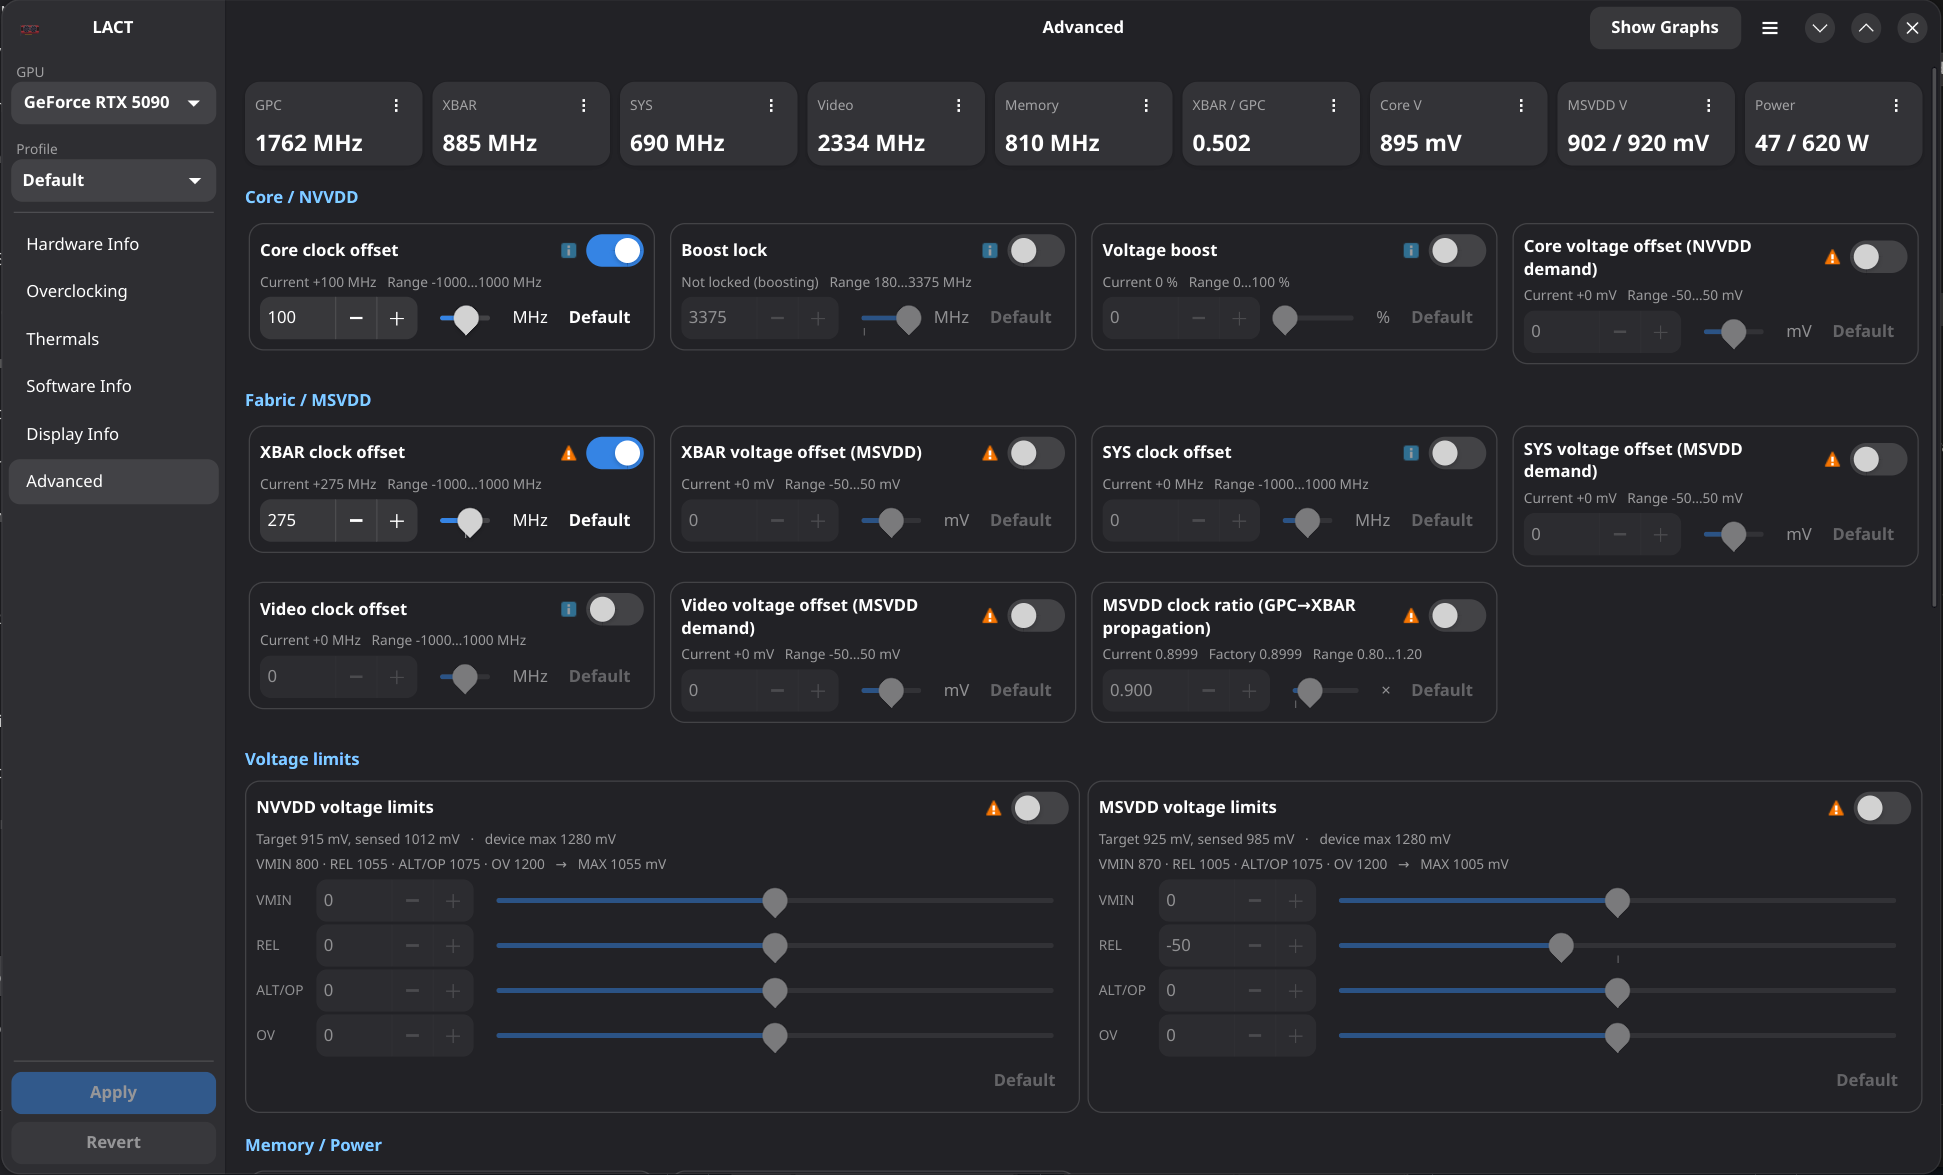
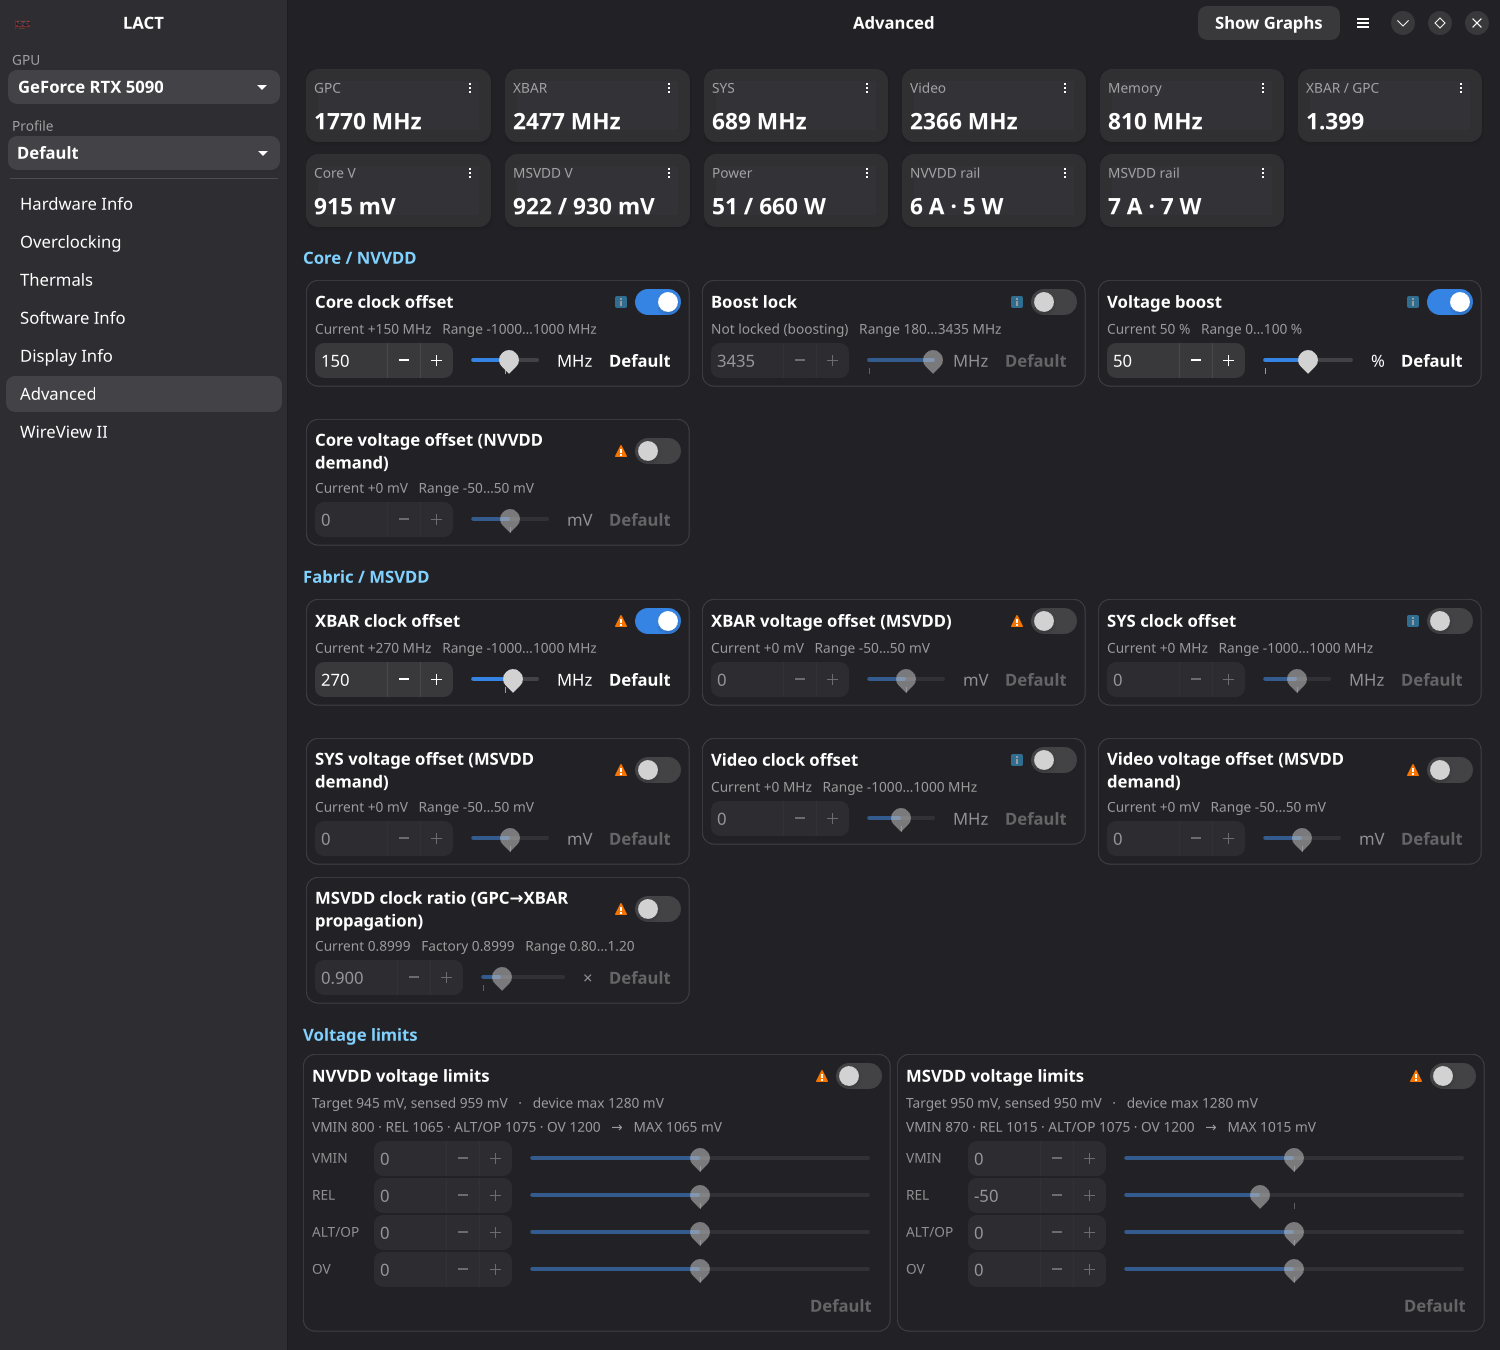
README: refreshed Advanced-page screenshots (rail currents, OCP cards, V/F curves)

diff --git a/README.md b/README.md
@@ -61,9 +61,9 @@ Blackwell card: the NVML-backed controls the Overclocking page also has
 (core and memory offset, power limit, voltage boost, locked core clock) plus
 the ones only this page reaches.
 
-| Telemetry, clock and voltage cards, rail limits | Memory and power, boost limits, tests |
+| Telemetry, clock and voltage cards, rail limits | Memory, power and current limits, boost limits, V/F curves, tests |
 | --- | --- |
-| ![Advanced page: telemetry tiles, the core and fabric cards and the two rail-limit cards](./res/screenshots/advanced-1.png) | ![Advanced page: memory and power cards, the boost-limit panel and the test runner](./res/screenshots/advanced-2.png) |
+| ![Advanced page: telemetry tiles including the rail currents, the core and fabric cards and the two rail-limit cards](./res/screenshots/advanced-1.png) | ![Advanced page: memory, power-limit and OCP cards, the boost-limit panel, the clock domain V/F curves and the test runner](./res/screenshots/advanced-2.png) |
 
 ## What the page controls
 
